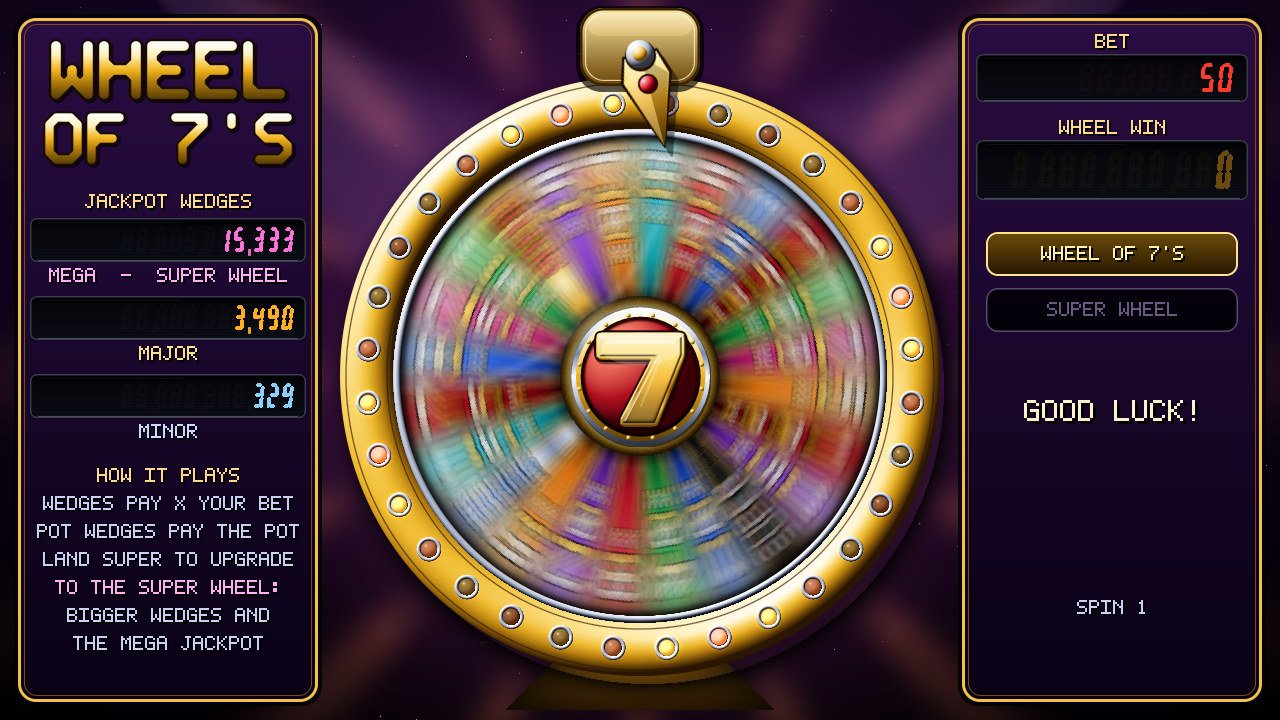
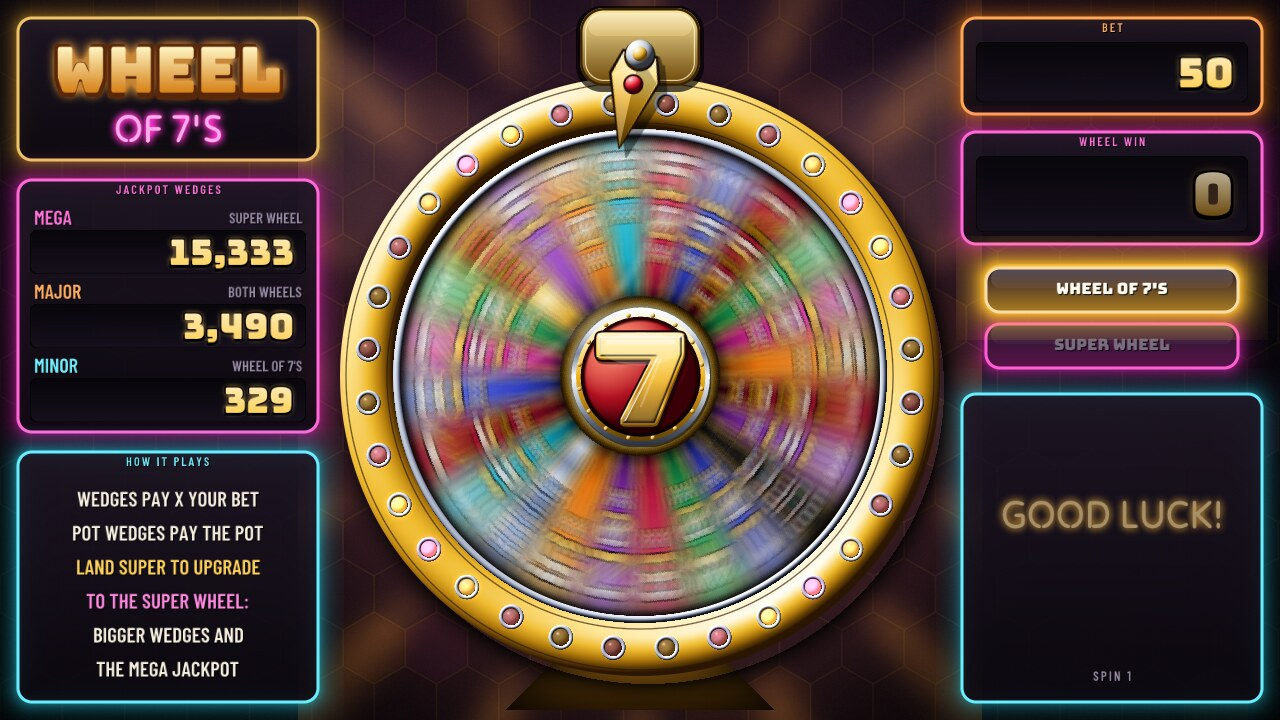
README for the lounge look; CONTROLS: SELECT/START names beside their buttons
The README gets the Beese's branding, the panel-position controls and
LEARN PANEL, the no-shader default, the font and stb_truetype licences,
and new screenshots (all regenerated with w7shot, plus ADD CREDITS and
CONTROLS).

On the CONTROLS page and in LEARN PANEL the SELECT caption sat between
the bottom row's labels and ran into ADD CREDITS; the small buttons now
have their name on the left and their job on the right.

diff --git a/src/w7_panel.c b/src/w7_panel.c
@@ -233,7 +233,7 @@ static void wp_draw_side(float x, float y, float s, int mark, uint32_t lit, int 
   for(int p = 0; p < PNL_N; p++){
     float cx, cy, r;
     if(p < 6){ cx = x + (170 + (p % 3) * 110) * s; cy = y + (60 + (p / 3) * 118) * s; r = 30 * s; }
-    else { cx = x + (225 + (p - 6) * 110) * s; cy = y + 258 * s; r = 13 * s; }
+    else { cx = x + (225 + (p - 6) * 110) * s; cy = y + 268 * s; r = 13 * s; }
     int on = (lit >> p) & 1u;
     uint32_t neon = (PNL_DOES[p] & (B_A | B_START)) ? LZ_GOLD : LZ_HONEY;
     if(p == mark){
@@ -245,8 +245,13 @@ static void wp_draw_side(float x, float y, float s, int mark, uint32_t lit, int 
     lz_dot(cx, cy, r + 3 * s, on ? lz_hot(neon, 0.4f) : neon, 255);
     lz_dot(cx, cy, r, on ? neon : 0x1E1622, 255);
     if(p >= 6){
-      lz_text_sh(LZF_UI_S, p == PNL_SELECT ? "SELECT" : "START", cx, cy - 34 * s, 14 * s, 0xAAA0B4, LZ_CENTER);
-      if(labels) lz_text_sh(LZF_UI_S, PNL_LABEL[p], cx, cy + 16 * s, 16 * s, LZ_HONEY, LZ_CENTER);
+      /* SELECT and START sit between the bottom row's labels, so their
+         names go beside them, not above: the button's name on the left,
+         what it does on the right, both centred on the button. */
+      const lz_font *F = &lzf[LZF_UI_S];
+      float sz = 15 * s, ty = cy - (F->capTop + F->capH * 0.5f) * (sz / F->base);
+      lz_text_sh(LZF_UI_S, p == PNL_SELECT ? "SELECT" : "START", cx - r - 7 * s, ty, sz, 0xAAA0B4, LZ_RIGHT);
+      if(labels) lz_text_sh(LZF_UI_S, PNL_LABEL[p], cx + r + 7 * s, ty, sz, on ? 0xFFFFFF : LZ_HONEY, LZ_LEFT);
       continue;
     }
     if(labels){

diff --git a/README.md b/README.md
@@ -1,9 +1,11 @@
-# WILD 7's
+# Beese's WILD 7's
 
 **An original Vegas-style video slot for the Raspberry Pi arcade cabinet.**
 Five reels, five rows, adjacent ways, six bonus features and four
 progressive jackpots - written from scratch in C as a libretro core, with
-every pixel and every sound generated by the code itself.
+every pixel and every sound generated by the code itself. It shares its
+neon-lounge look with its sister game on the same cabinet,
+[Beese's Poker Lounge](https://github.com/cael-beese/Poker).
 
 ![EPIC WIN](docs/screenshots/epic-win.jpg)
 
@@ -16,7 +18,12 @@ every pixel and every sound generated by the code itself.
 - **Four progressive jackpots** that scale with your bet, up to the
   ULTIMATE at 100,000 x bet
 - **Hollywood presentation**: BIG / SUPER / MEGA / EPIC win count-ups,
-  1,000-particle 3-D coin showers, lightning, fireworks, a live marquee
+  1,000-particle 3-D coin showers, lightning, fireworks, a live neon marquee
+- **A lounge look**: dark glass panels with neon edges, gold numerals and
+  real type (Bungee, Barlow Condensed, Tilt Neon), crisp at 1280x720
+- **Labelled for an unlabelled panel**: every on-screen prompt names the
+  deck button and shows where it is on the panel, a CONTROLS page lights
+  whatever you press, and LEARN PANEL maps any wiring on first start
 - **Stereo synthesised sound**: music that follows the game, reverb,
   jackpot fanfares - no samples
 - **Built for a Raspberry Pi 4**: 1280x720 at 60 fps from a software
@@ -29,7 +36,7 @@ every pixel and every sound generated by the code itself.
 | | |
 |---|---|
 | ![Attract](docs/screenshots/attract.jpg) | ![MULTIPLIER UP](docs/screenshots/multiplier-up.jpg) |
-| **Attract loop** - the machine shows itself off between players | **Free spins** - every wild reel adds +1 to the multiplier, and it never goes down until the feature ends |
+| **Attract loop** - the neon sign, the jackpots and the features, between players | **Free spins** - every wild reel adds +1 to the multiplier, and it never goes down until the feature ends |
 | ![Free spins win](docs/screenshots/free-spins-win.jpg) | ![MEGA WIN](docs/screenshots/mega-win.jpg) |
 | **The win, spelled out** - LAST WIN shows the ways, the wild boost and the multiplier | **MEGA WIN** - the count climbs and slams up a tier at 10x, 25x, 50x and 100x |
 | ![HOLD & SPIN](docs/screenshots/hold-and-spin.jpg) | ![HOLD & SPIN win](docs/screenshots/hold-and-spin-win.jpg) |
@@ -40,11 +47,13 @@ every pixel and every sound generated by the code itself.
 | **The prize** | **7 STRIKE** - a random storm; every bolt turns a cell wild |
 | ![GAMBLE](docs/screenshots/gamble.jpg) | ![LUCKY 7 PICK](docs/screenshots/lucky-7-pick.jpg) |
 | **GAMBLE** - red or black to double, a suit to quadruple | **LUCKY 7 PICK** - turn panels until the third STOP |
-| ![ULTIMATE JACKPOT](docs/screenshots/ultimate-jackpot.jpg) | |
-| **The ULTIMATE** - five ULTIMATE symbols in a chain | |
+| ![ULTIMATE JACKPOT](docs/screenshots/ultimate-jackpot.jpg) | ![ADD CREDITS](docs/screenshots/add-credits.jpg) |
+| **The ULTIMATE** - five ULTIMATE symbols in a chain | **ADD CREDITS** - free play; every prompt names the deck button and shows where it is |
+| ![CONTROLS](docs/screenshots/controls.jpg) | |
+| **CONTROLS** - the pay table's last page draws the panel and lights what you press | |
 
 *Screenshots are the core's own 1280x720 output, captured headlessly with
-`tools/w7shot`; on the cabinet RetroArch adds a CRT-curve shader.*
+`tools/w7shot`; the cabinet shows the same pixels, with no shader.*
 
 ---
 
@@ -63,7 +72,7 @@ doubles it.
 | **HOLD & SPIN** | 6+ LUCKY COINS | coins lock, three respins reset by every new coin; coins can carry the MINOR or MAJOR jackpot; a full board wins the GRAND |
 | **WHEEL OF 7'S** | a WHEEL on reels 2, 3 and 4 | 5x to 250x the bet, jackpot wedges, and a SUPER WHEEL up to the MEGA |
 | **7 STRIKE** | at random, 1 spin in 100 | 3 to 8 lightning bolts turn cells into WILD 7s |
-| **GAMBLE** | X on any base-game win up to 50x | red/black doubles, a suit quadruples - an exactly fair draw |
+| **GAMBLE** | BET MAX on any base-game win up to 50x | red/black doubles, a suit quadruples - an exactly fair draw |
 | **Jackpots** | JACKPOT clusters of 5 / 6 / 7+; five ULTIMATEs | MINOR 5x, MAJOR 40x, MEGA 200x, ULTIMATE 100,000x the bet, plus everything fed in |
 
 The full rules, every multiplier and exactly when it goes up and comes
@@ -80,16 +89,41 @@ Every figure comes from `src/sim.c`, which compiles the game's own source
 and plays it for millions of spins - the maths it measures is the code that
 ships, not a copy of it.
 
-## Controls (RetroPad)
+## Controls
+
+Everything is on player 1's side of the panel - a stick, two rows of three
+buttons, SELECT and START - laid out by position the way a slot machine's
+deck reads:
+
+```
+            PLAYER 1 SIDE
+    (o)    [ PAYS ]        [ BET LESS ]   [ BET MORE ]
+   stick   [ ADD CREDITS ] [ BET MAX ]    [ SPIN ]
+           SELECT = PAYS                  START = SPIN
+```
 
 | Button | Does |
 |---|---|
-| START / A | Spin; slam the reels down |
-| LEFT / RIGHT | Bet less / more |
-| X | Max bet and spin - or, on a win, **GAMBLE** |
-| Y | Add credits |
-| SELECT | Pay table (three pages) |
-| B | Slam / cancel / collect |
+| SPIN (or START) | Spin; during a spin, slam the reels down. Picks, spins the wheel, collects |
+| BET LESS / BET MORE, or the stick | Bet less / more. The stick also moves in the pick bonus and calls red or black in the gamble |
+| BET MAX | The highest bet your credits cover, and spin - or, on a win, **GAMBLE** it |
+| ADD CREDITS | Add free-play credits |
+| PAYS (or SELECT) | The pay table: PAY TABLE, FEATURES, MORE FEATURES, CONTROLS |
+| SELECT + START | Back to EmulationStation |
+
+The game never names a RetroPad letter: the panel is unlabelled, so every
+prompt names the deck button and draws a small map of the panel with that
+button lit. The **CONTROLS** page (the pay table's fourth) lights up
+whatever you press.
+
+**LEARN PANEL.** Which encoder input lands in which position depends on
+how the cabinet was wired, so on its first start the game asks for each of
+the eight positions in turn ("PLAYER 1 SIDE: PRESS THE TOP LEFT BUTTON")
+and saves the answer to `wild7_panel.cfg` in RetroArch's save directory.
+Nobody there? It gives up after 12 seconds and doesn't ask again. To run
+it later, open CONTROLS and hold any button for 5 seconds. Until it has
+learned, the game assumes RetroPie's usual 6-button layout. The full
+details are in the [player's guide](docs/GAME_GUIDE.md#2-controls).
 
 ---
 
@@ -106,8 +140,9 @@ sudo bash ./install-retropie.sh
 
 Restart EmulationStation and it is under **Ports**. The installer puts the
 core in `/opt/retropie/libretrocores/lr-wild7/`, writes a port config
-(core-provided 16:9 aspect, the `zfast_crt_curve` shader if present) and a
-`wild7.w7` settings file beside the launcher.
+(core-provided 16:9 aspect, no shader) and a `wild7.w7` settings file
+beside the launcher. For the old CRT curve, install with
+`sudo WILD7_CRT=1 bash ./install-retropie.sh` (uses `zfast_crt_curve`).
 
 It is a standard libretro core, so it also runs on any libretro frontend:
 `make` on Linux x86-64 builds `wild7_libretro.so` for desktop RetroArch, and
@@ -123,7 +158,9 @@ Core Options.
   effects system, the synth and the thread pool.
 - **All art is procedural.** Every symbol, coin, card and wheel face is
   vector art drawn at start-up on a 4x supersampled canvas, lit, contoured
-  and shadowed, then blitted at run time. There are no image files.
+  and shadowed, then blitted at run time. There are no image files; the
+  type is four open-licensed fonts compiled into the core and rasterised
+  with stb_truetype at start-up.
 - **Band-parallel software renderer.** Each frame is cut into nine
   horizontal bands drawn by three threads, leaving a core free for
   RetroArch. `tools/bandcheck.sh` proves the threaded output is
@@ -168,6 +205,10 @@ from the copyright holder - including selling it or anything built from
 it, or running it in a cabinet, product or service operated for profit. To
 ask, open an issue on this repository.
 
-`src/libretro.h`, the standard libretro API header from
-[libretro-common](https://github.com/libretro/libretro-common), is the
-RetroArch team's and keeps its own MIT license.
+Third-party parts keep their own licenses (details in
+[LICENSE.md](LICENSE.md)): `src/libretro.h`, the standard libretro API
+header from [libretro-common](https://github.com/libretro/libretro-common),
+is the RetroArch team's under MIT; `src/third_party/stb_truetype.h` is
+Sean Barrett's, public domain or MIT; and the fonts in `assets/fonts/`
+(Barlow Condensed, Bungee, Tilt Neon, Neonderthaw) are under the SIL Open
+Font License 1.1, with their notices beside them.
